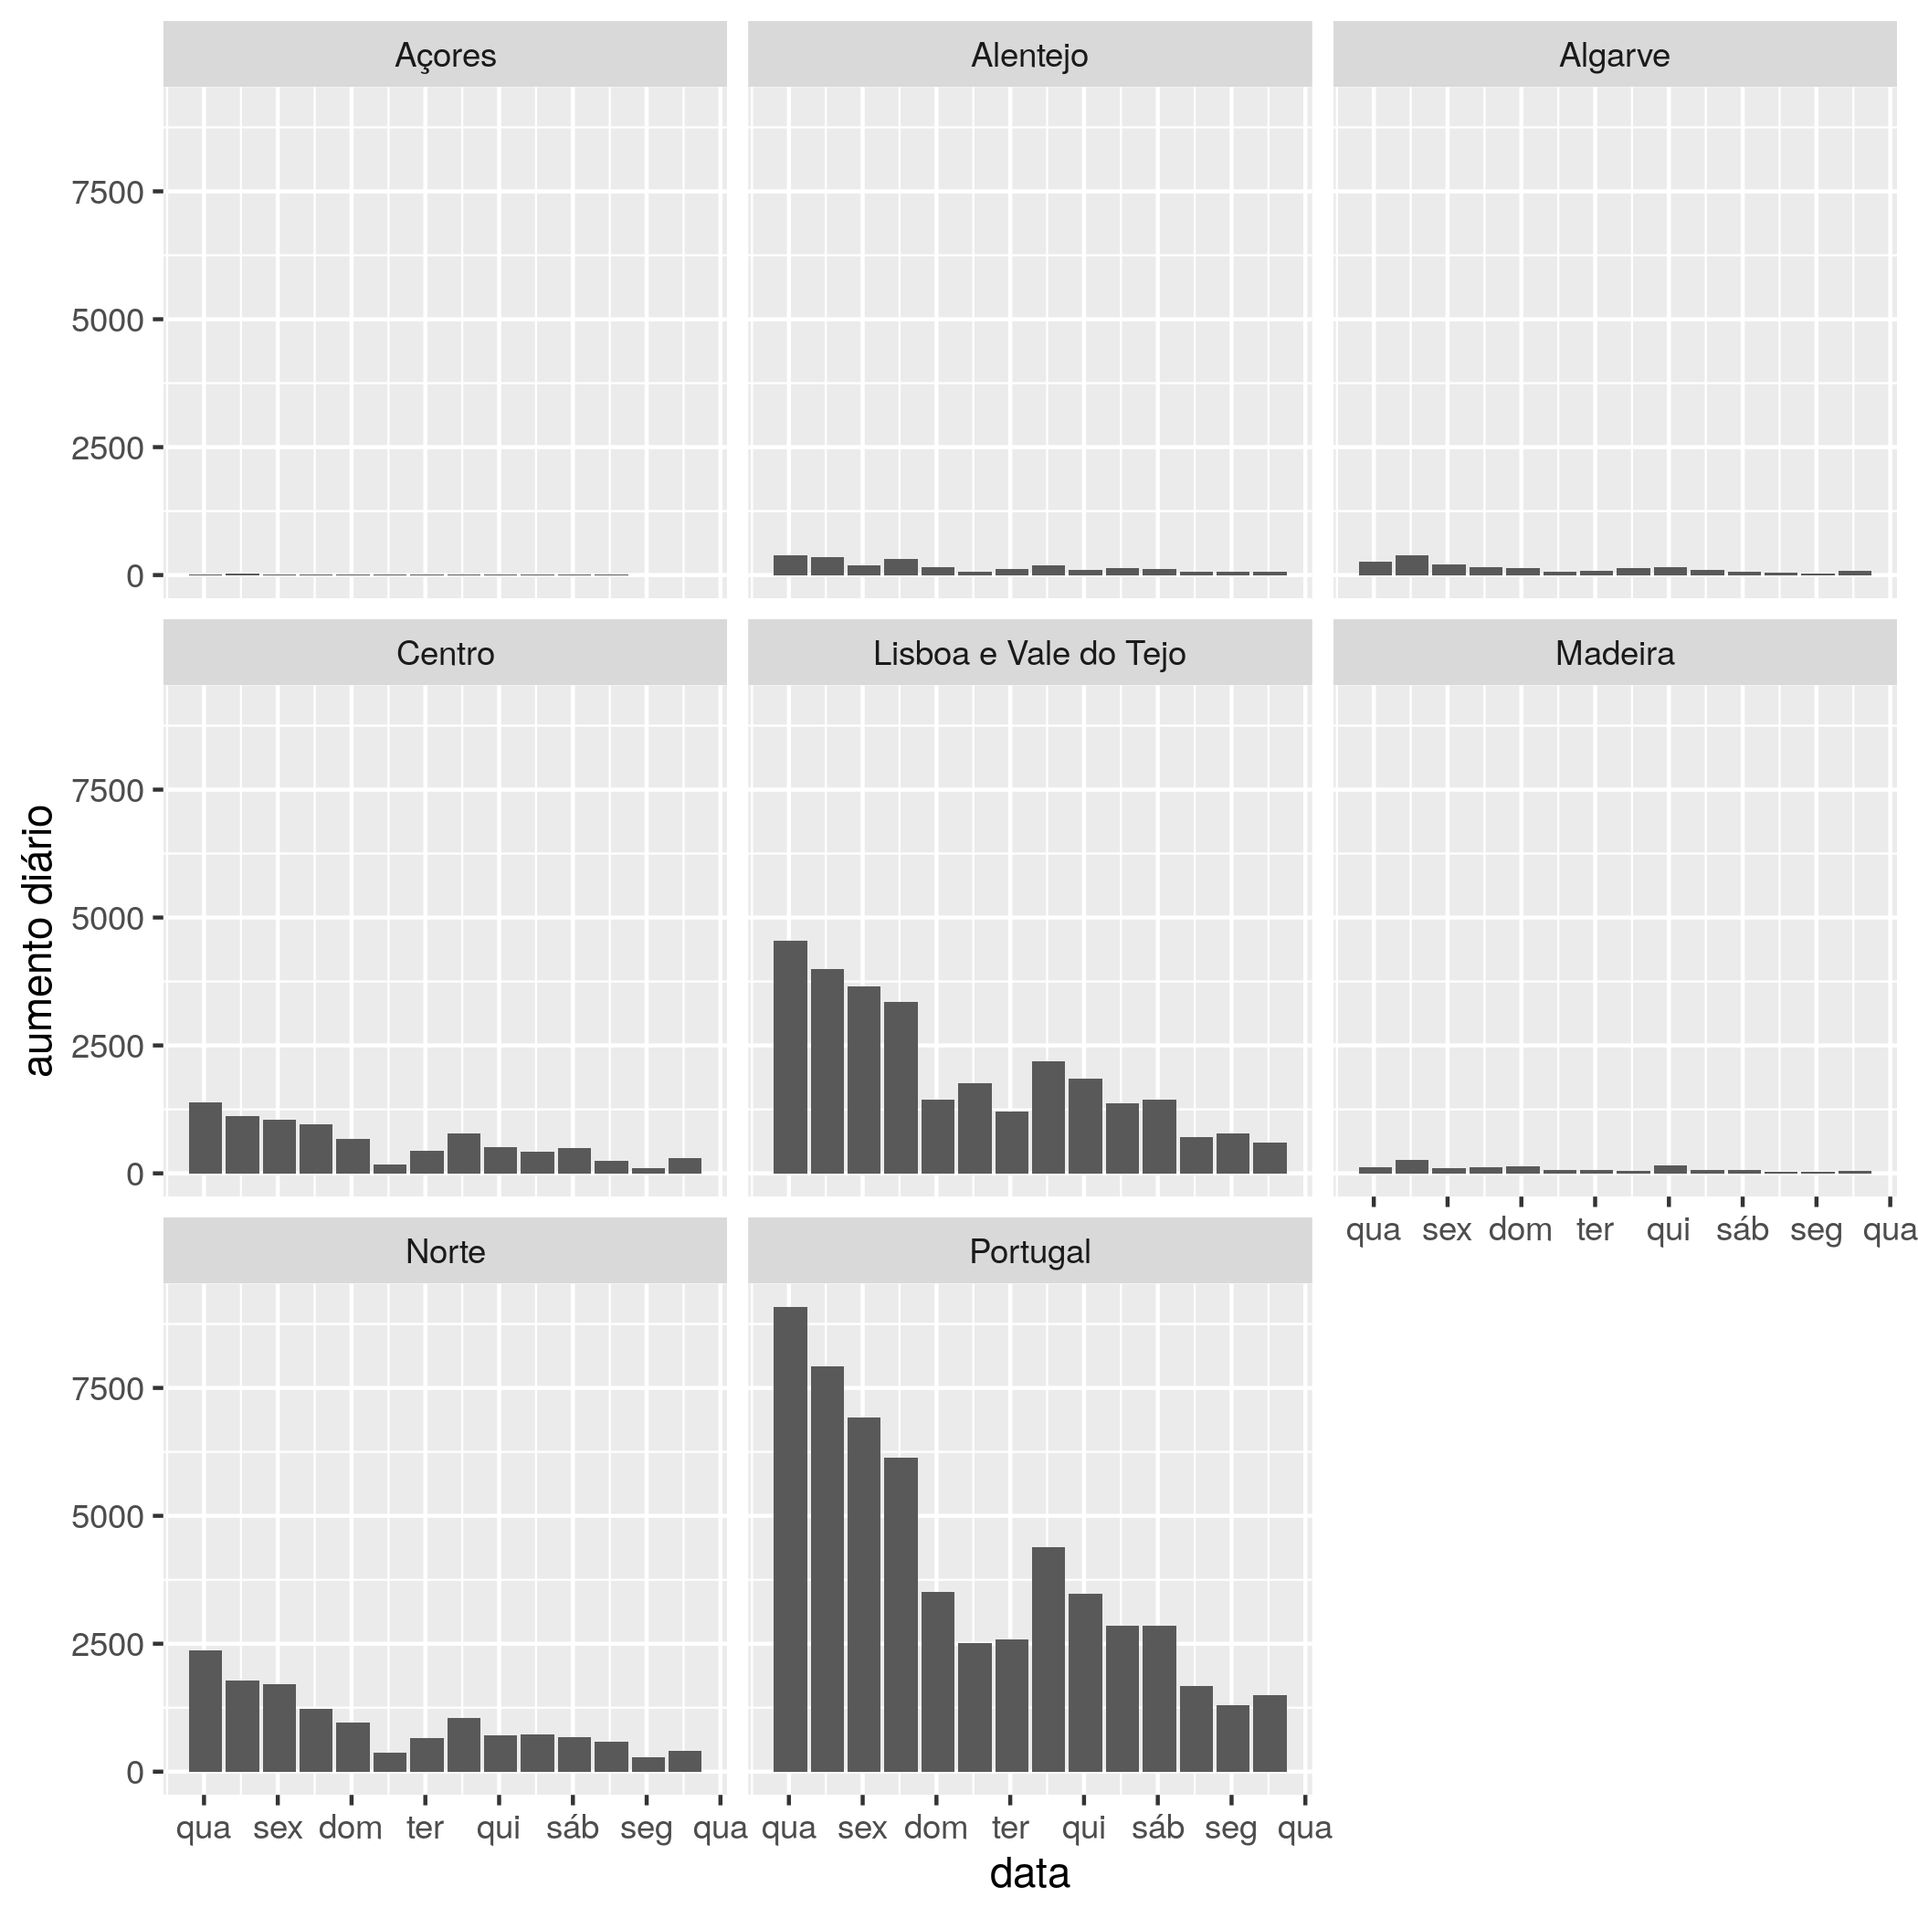
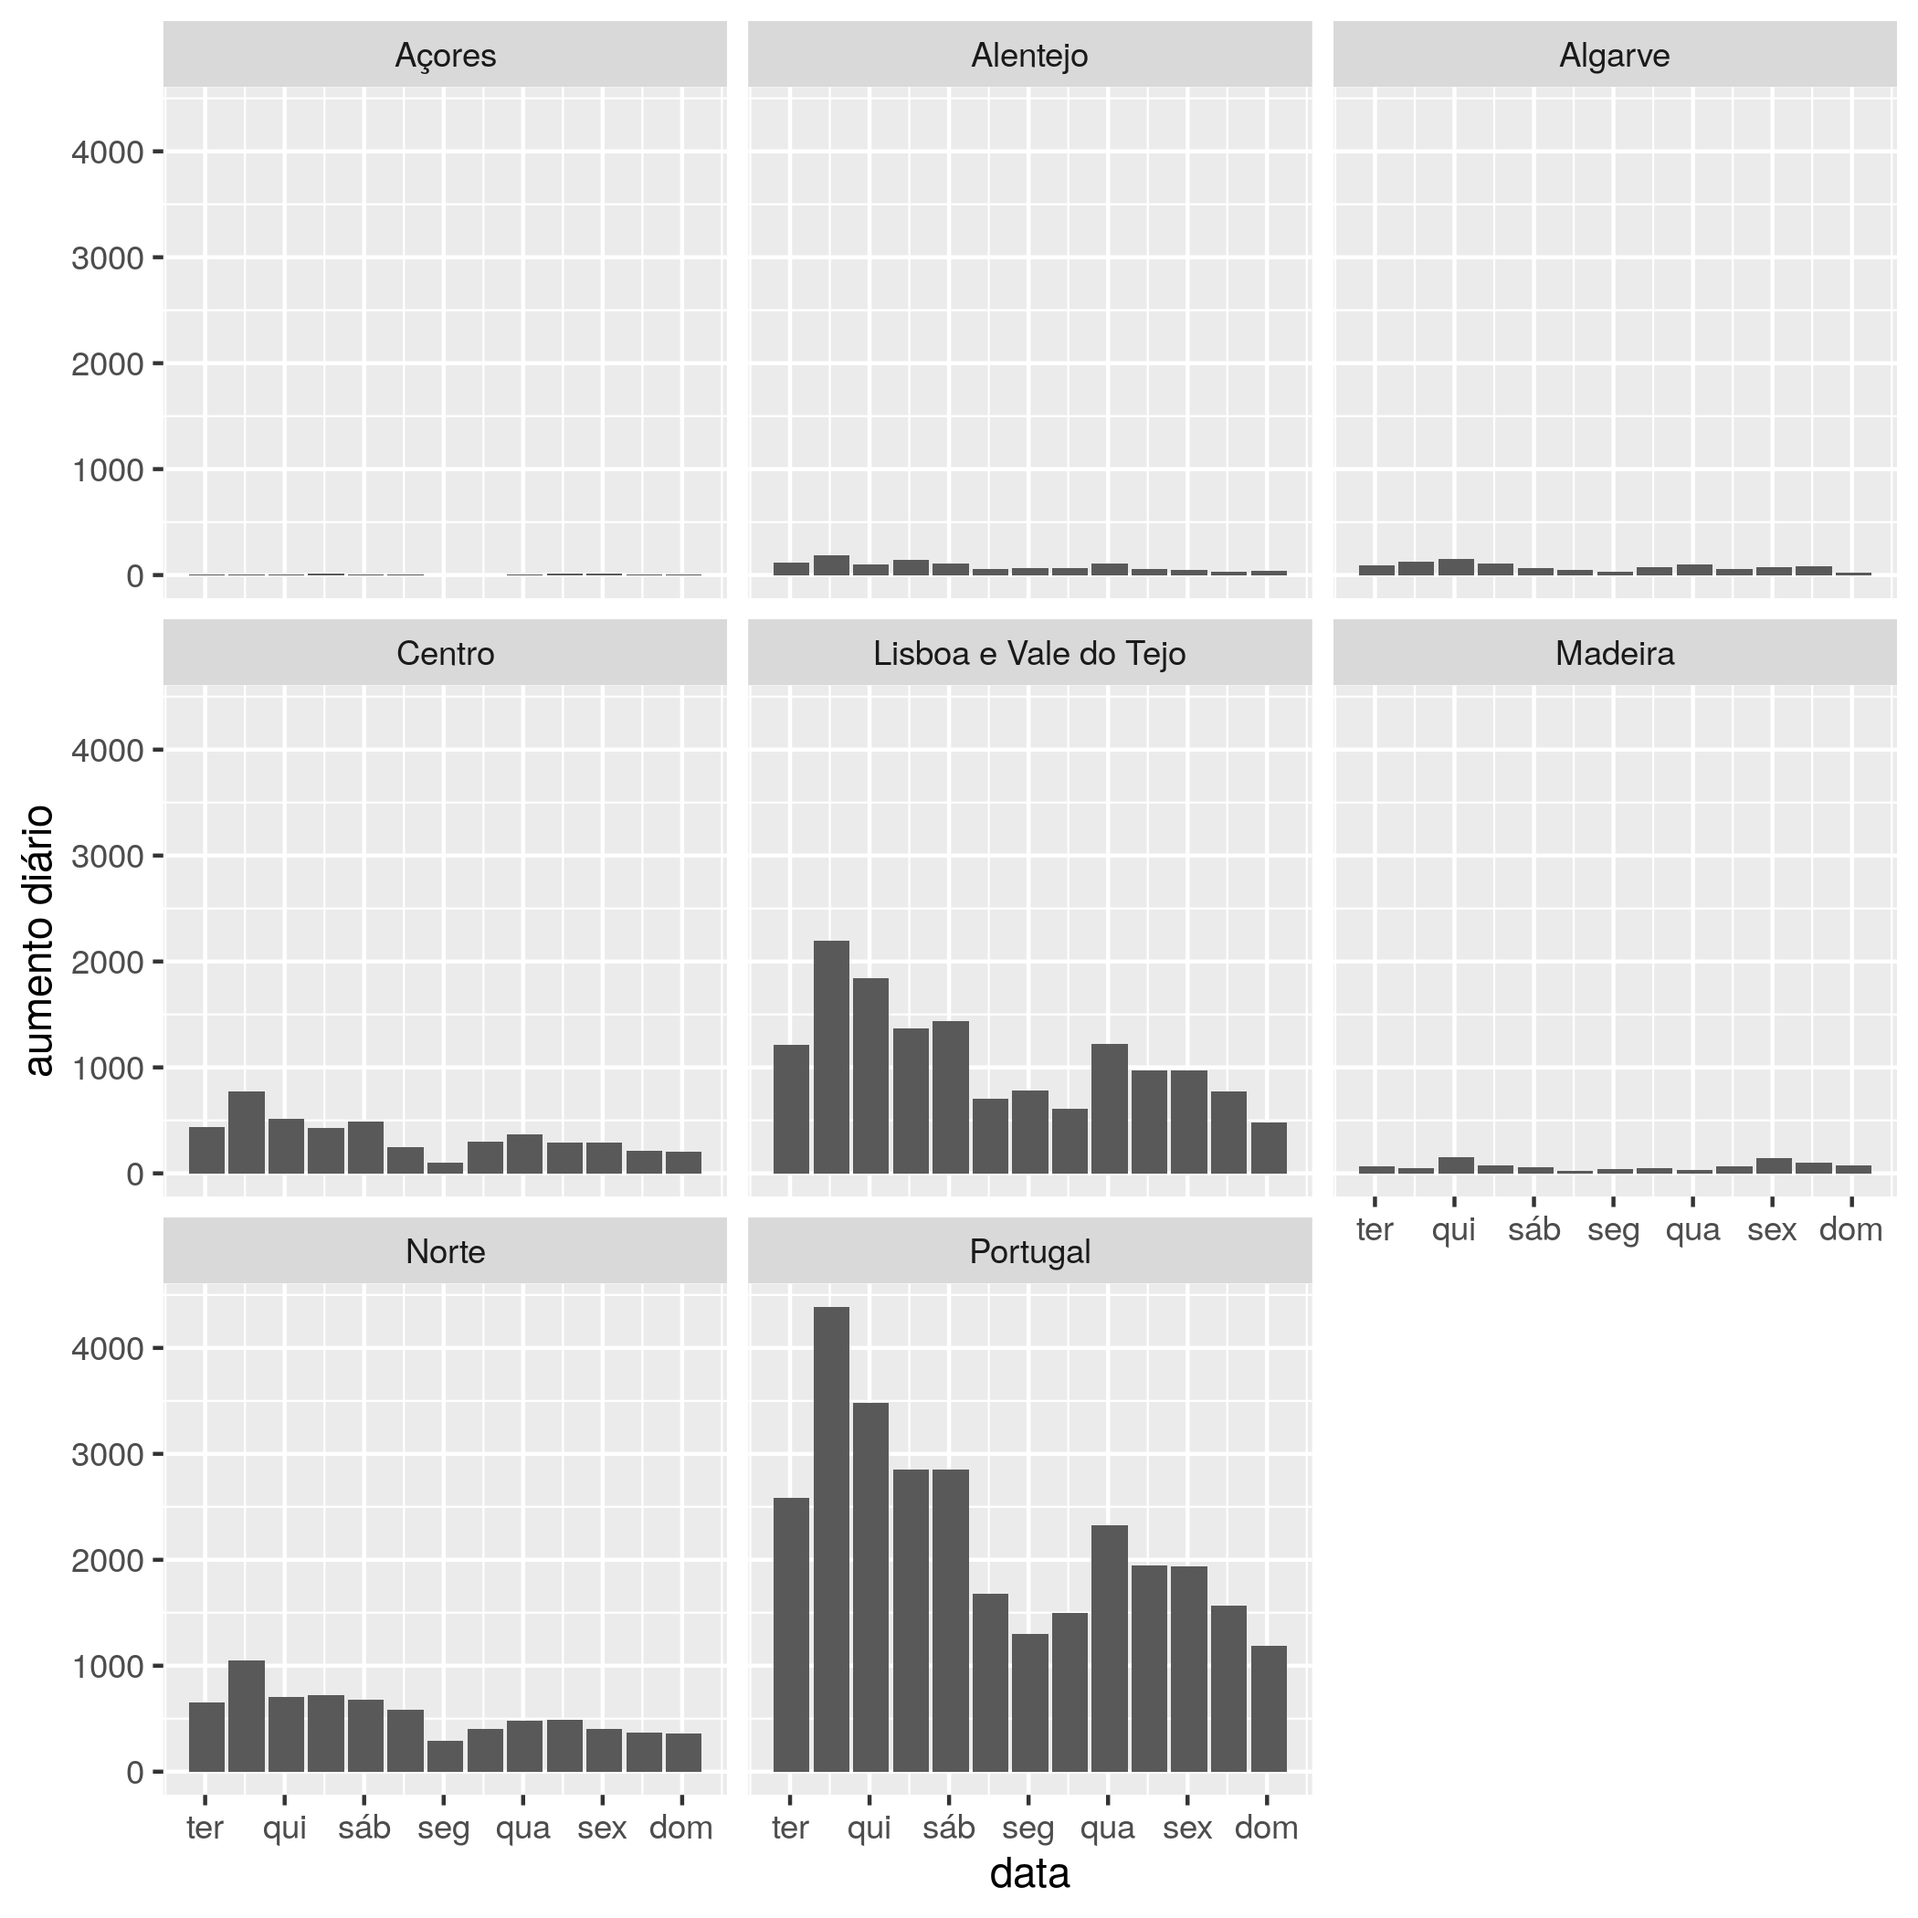
pessimismo...

diff --git a/README.md b/README.md
@@ -1,7 +1,7 @@
 # Contexto
 A incidência por 100000 habitantes em 7 dias é o valor de referência para decretar regiões de risco pelas autoridades de saúde alemãs (valor charneira é 50). Gráficos atualizados diariamente. Para ajudar quem quer viajar para a Alemanha ou vir passar férias a Portugal.
 
-Dados mais recentes de 2021-02-16.
+Dados mais recentes de 2021-02-21.
 
 # Incidência por 100000 habitantes em 7 dias
 ## Últimos 30 dias
